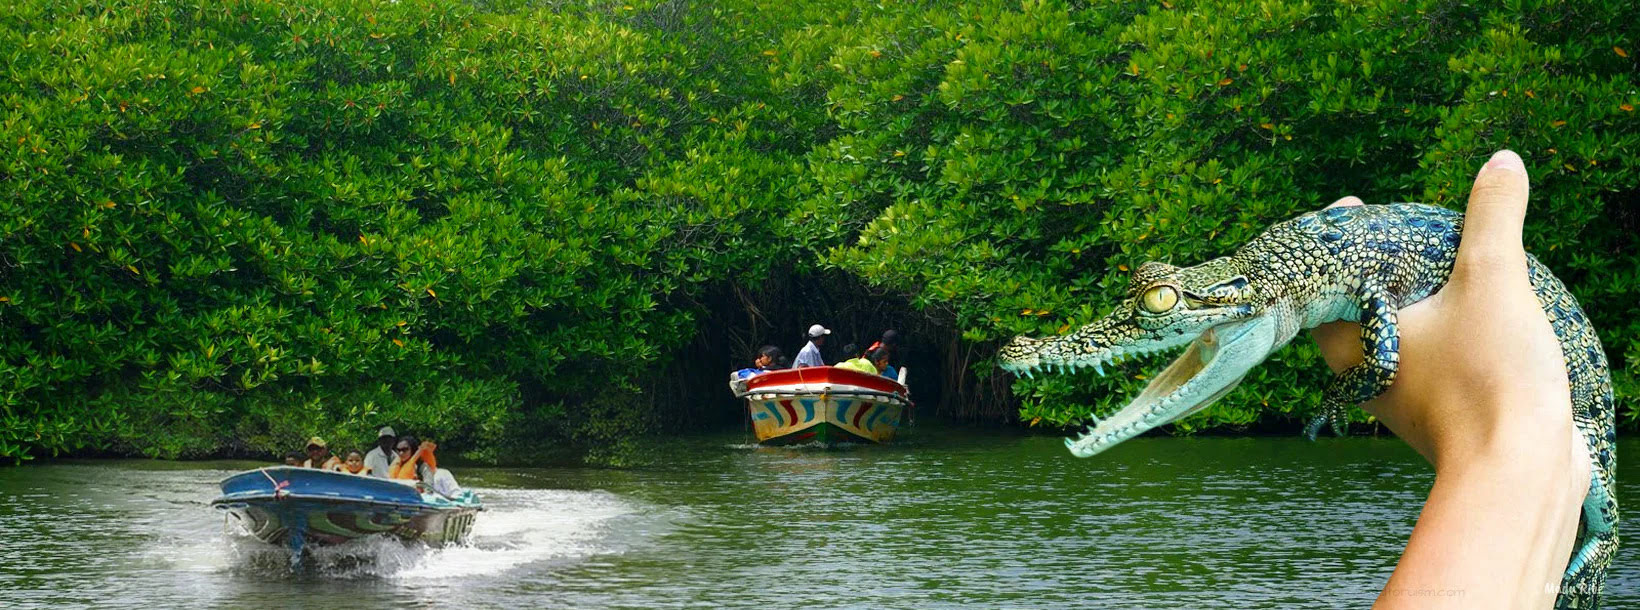
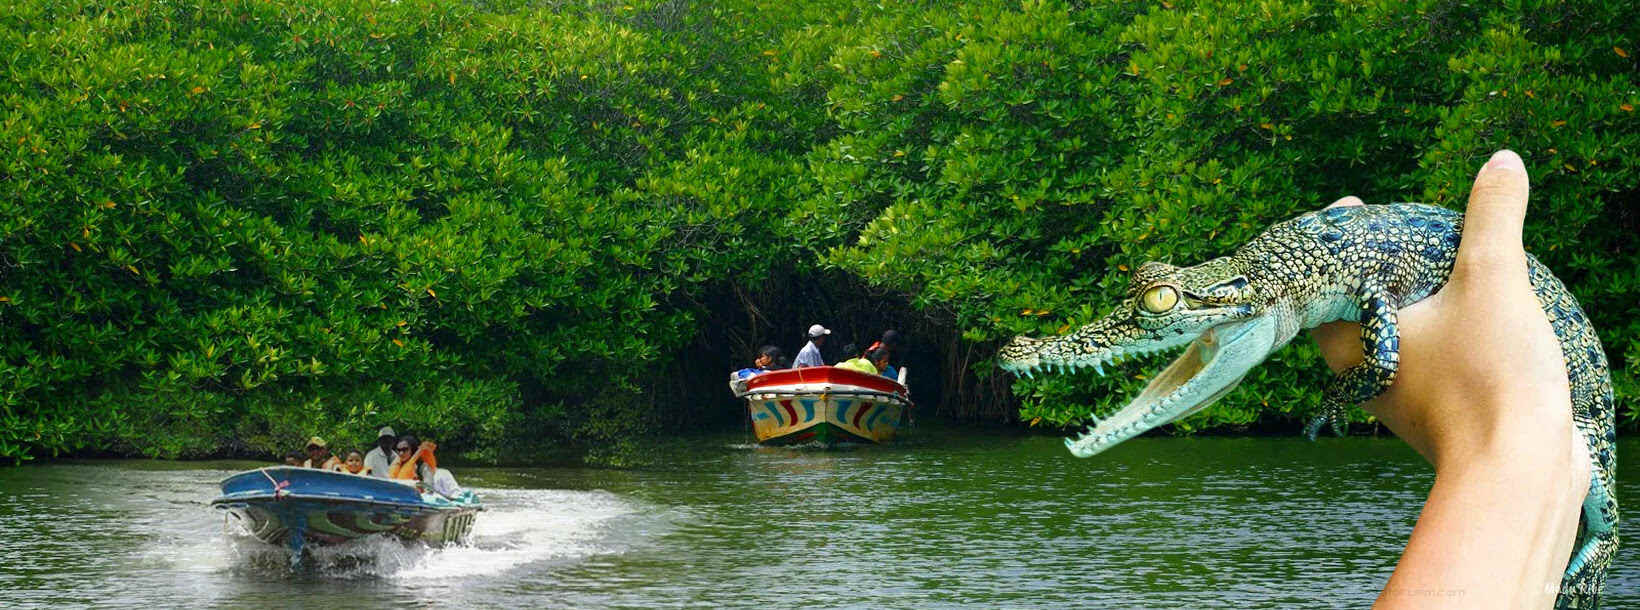
new realse

diff --git a/src/app/mainComponents/home-page-component/home-page-component.html b/src/app/mainComponents/home-page-component/home-page-component.html
@@ -3,7 +3,8 @@
     <div id="header-carousel" class="carousel slide" data-ride="carousel">
         <div class="carousel-inner">
             <div class="carousel-item active">
-                <img class="w-100" src="assets/img/mainpage/1.jpg" alt="Sigiriya Rock tour Sri Lanka">
+                <img class="w-100" src="assets/img/mainpage/1.jpg" alt="Sigiriya Rock tour Sri Lanka" decoding="async"
+                    fetchpriority="high">
                 <div class="carousel-caption d-flex flex-column align-items-center justify-content-center">
                     <div class="p-3" style="max-width: 900px;">
                         <!-- <h4 class="text-white text-uppercase mb-md-3">Tours & Travel</h4> -->
@@ -21,7 +22,8 @@
                 </div>
             </div>
             <div class="carousel-item">
-                <img class="w-100" src="assets/img/5daysTours/32.jpg" alt="Sigiriya tour Sri Lanka">
+                <img class="w-100" src="assets/img/5daysTours/32.jpg" alt="Sigiriya tour Sri Lanka" loading="lazy"
+                    decoding="async" fetchpriority="low">
                 <div class="carousel-caption d-flex flex-column align-items-center justify-content-center">
                     <div class="p-3" style="max-width: 900px;">
                         <!-- <h4 class="text-white text-uppercase mb-md-3">Tours & Travel</h4> -->
@@ -32,7 +34,8 @@
                 </div>
             </div>
             <div class="carousel-item">
-                <img class="w-100" src="assets/img/5daysTours/28.png" alt="Sri Lanka wildlife safari tour">
+                <img class="w-100" src="assets/img/5daysTours/28.png" alt="Sri Lanka wildlife safari tour"
+                    loading="lazy" decoding="async" fetchpriority="low">
                 <div class="carousel-caption d-flex flex-column align-items-center justify-content-center">
                     <div class="p-3" style="max-width: 900px;">
                         <!-- <h4 class="text-white text-uppercase mb-md-3">Tours & Travel</h4> -->
@@ -43,7 +46,8 @@
                 </div>
             </div>
             <div class="carousel-item">
-                <img class="w-100" src="assets/img/5daysTours/41.jpg" alt="Ella Nine Arches Bridge Sri Lanka tour">
+                <img class="w-100" src="assets/img/5daysTours/41.jpg" alt="Ella Nine Arches Bridge Sri Lanka tour"
+                    loading="lazy" decoding="async" fetchpriority="low">
                 <div class="carousel-caption d-flex flex-column align-items-center justify-content-center">
                     <div class="p-3" style="max-width: 900px;">
                         <!-- <h4 class="text-white text-uppercase mb-md-3">Tours & Travel</h4> -->
@@ -54,7 +58,8 @@
                 </div>
             </div>
             <div class="carousel-item">
-                <img class="w-100" src="assets/img/mainpage/5.jpg" alt="Sigiriya Lion Rock tour Sri Lanka">
+                <img class="w-100" src="assets/img/mainpage/5.jpg" alt="Sigiriya Lion Rock tour Sri Lanka"
+                    loading="lazy" decoding="async" fetchpriority="low">
                 <div class="carousel-caption d-flex flex-column align-items-center justify-content-center">
                     <div class="p-3" style="max-width: 900px;">
                         <!-- <h4 class="text-white text-uppercase mb-md-3">Tours & Travel</h4> -->
@@ -65,7 +70,8 @@
                 </div>
             </div>
             <div class="carousel-item">
-                <img class="w-100" src="assets/img/mainpage/6.jpg" alt="Sri Lanka private tours with Sundown Tours">
+                <img class="w-100" src="assets/img/mainpage/6.jpg" alt="Sri Lanka private tours with Sundown Tours"
+                    loading="lazy" decoding="async" fetchpriority="low">
                 <div class="carousel-caption d-flex flex-column align-items-center justify-content-center">
                     <div class="p-3" style="max-width: 900px;">
                         <!-- <h4 class="text-white text-uppercase mb-md-3">Tours & Travel</h4> -->
@@ -126,7 +132,8 @@
             <!-- Sigiriya -->
             <div class="col-lg-4 col-md-6">
                 <div class="premium-card" (click)="scrollToSection('packages')">
-                    <img src="assets/img/destination-1.jpg" alt="Sigiriya">
+                    <img src="assets/img/destination-1.jpg" alt="Sigiriya Rock Fortress Sri Lanka" loading="lazy"
+                        decoding="async" fetchpriority="low">
                     <div class="content">
                         <h3>Sigiriya</h3>
                         <!-- <p>Ancient rock fortress with royal gardens and breathtaking views.</p> -->
@@ -138,7 +145,8 @@
             <!-- Ella -->
             <div class="col-lg-4 col-md-6">
                 <div class="premium-card" (click)="scrollToSection('packages')">
-                    <img src="assets/img/destination-2.jpg" alt="Ella">
+                    <img src="assets/img/destination-2.jpg" alt="Ella Scenic Train Journey Sri Lanka" loading="lazy"
+                        decoding="async" fetchpriority="low">
                     <div class="content">
                         <h3>Ella</h3>
                         <!-- <p>Scenic train rides, waterfalls, and iconic Nine Arches Bridge.</p> -->
@@ -150,7 +158,8 @@
             <!-- Yala -->
             <div class="col-lg-4 col-md-6">
                 <div class="premium-card" (click)="scrollToSection('packages')">
-                    <img src="assets/img/destination-3.jpg" alt="Yala">
+                    <img src="assets/img/destination-3.jpg" alt="Yala National Park Safari Sri Lanka" loading="lazy"
+                        decoding="async" fetchpriority="low">
                     <div class="content">
                         <h3>Yala Safari</h3>
                         <!-- <p>Luxury wildlife safari with leopards and elephants.</p> -->
@@ -162,7 +171,8 @@
             <!-- Kandy -->
             <div class="col-lg-4 col-md-6">
                 <div class="premium-card" (click)="scrollToSection('packages')">
-                    <img src="assets/img/destination-4.jpg" alt="Kandy">
+                    <img src="assets/img/destination-4.jpg" alt="Kandy" loading="lazy" decoding="async"
+                        fetchpriority="low">
                     <div class="content">
                         <h3>Kandy</h3>
                         <!-- <p>Temple of the Tooth and cultural heart of Sri Lanka.</p> -->
@@ -174,7 +184,8 @@
             <!-- Dambulla -->
             <div class="col-lg-4 col-md-6">
                 <div class="premium-card" (click)="scrollToSection('packages')">
-                    <img src="assets/img/destination-5.jpg" alt="Dambulla">
+                    <img src="assets/img/destination-5.jpg" alt="Dambulla" loading="lazy" decoding="async"
+                        fetchpriority="low">
                     <div class="content">
                         <h3>Dambulla</h3>
                         <!-- <p>Golden cave temples with rich Buddhist heritage.</p> -->
@@ -186,7 +197,8 @@
             <!-- Galle -->
             <div class="col-lg-4 col-md-6">
                 <div class="premium-card" (click)="scrollToSection('packages')">
-                    <img src="assets/img/destination-6.jpg" alt="Galle">
+                    <img src="assets/img/destination-6.jpg" alt="Galle" loading="lazy" decoding="async"
+                        fetchpriority="low">
                     <div class="content">
                         <h3>Galle</h3>
                         <!-- <p>Colonial fort city with beaches and sunset views.</p> -->
@@ -249,7 +261,8 @@
 
             <!-- IMAGE -->
             <div class="about-image">
-                <img src="assets/img/5daysTours/6.jpg" alt="Sri Lanka Train Experience">
+                <img src="assets/img/5daysTours/6.jpeg" alt="Sri Lanka Train Experience" loading="lazy" decoding="async"
+                    fetchpriority="low">
             </div>
 
             <!-- CONTENT CARD -->
@@ -288,8 +301,8 @@
 
                 <!-- SMALL IMAGES -->
                 <div class="about-gallery">
-                    <img src="assets/img/about-1.jpg">
-                    <img src="assets/img/about-2.jpg">
+                    <img src="assets/img/about-1.jpg" loading="lazy" decoding="async" fetchpriority="low">
+                    <img src="assets/img/about-2.jpg" loading="lazy" decoding="async" fetchpriority="low">
                 </div>
 
                 <a href="/contact-us" class="about-btn">
@@ -460,7 +473,8 @@
 
                     <!-- IMAGE -->
                     <div class="team-image">
-                        <img src="assets/img/Team/1.jpeg" alt="Dilan Lakshitha">
+                        <img src="assets/img/Team/1.jpeg" alt="Dilan Lakshitha - Founder of Sundown Tours"
+                            loading="lazy" decoding="async" fetchpriority="low">
                         <div class="overlay"></div>
                     </div>
 
@@ -482,7 +496,8 @@
 
                     <!-- IMAGE -->
                     <div class="team-image">
-                        <img src="assets/img/Team/2.jpg" alt="Dilan Lakshitha">
+                        <img src="assets/img/Team/2.jpg" alt="Yohan Malshika - Senior Consultant" loading="lazy"
+                            decoding="async" fetchpriority="low">
                         <div class="overlay"></div>
                     </div>
 
